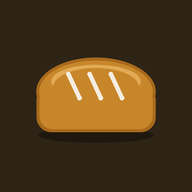
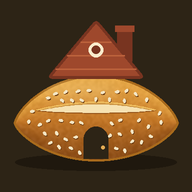
Add files via upload

diff --git a/public/index.html b/public/index.html
@@ -9,6 +9,8 @@
     <meta name="apple-mobile-web-app-status-bar-style" content="black-translucent" />
     <meta name="apple-mobile-web-app-title" content="House Bread" />
     <link rel="manifest" href="%PUBLIC_URL%/manifest.json" />
+    <link rel="icon" type="image/png" href="%PUBLIC_URL%/icon-192.png" />
+    <link rel="apple-touch-icon" href="%PUBLIC_URL%/icon-192.png" />
     <title>House Bread — Home Affordability Calculator</title>
   </head>
   <body>
